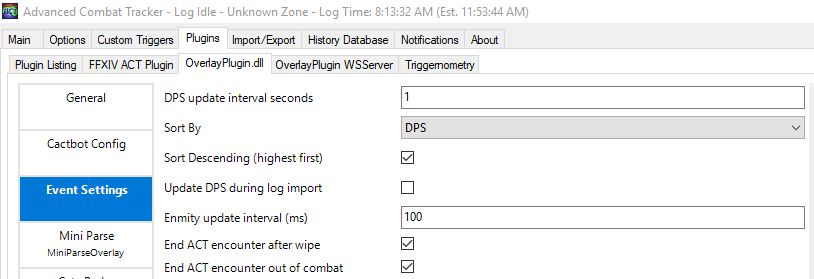
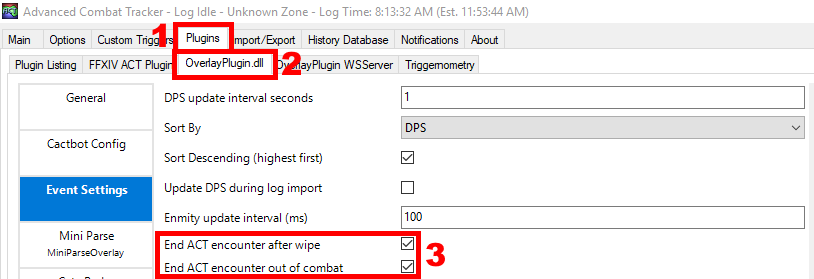
Update ACT setup guide (#7)
* Update README.md

* Update op_event_settings.png

* Update README.md

* Update README.md

* date

Changed region(s): [[0.1843, 0.8029, 0.5528, 1.0], [0.1843, 0.0573, 0.3686, 0.2867]]

diff --git a/setup/README.md b/setup/README.md
@@ -2,16 +2,18 @@
 
 This guide is intended to get a FFXIV player setup with ACT and an overlay for parsing purposes and be able to upload logs to the FFLogs website.
 
-*Last updated: 2023-06-29*
+*Last updated: 2024-09-02*
 
 <img align="right" src="resources/act_logo.png" alt="act_logo" height="100" vspace="25">
 
 ## Contents
 - [Installing ACT](#installing-act)
-- [Configuring ACT](#configuring-act)
-  - [Running as Admin](#running-as-admin)
-  - [Adding Firewall Exception](#adding-firewall-exception)
 - [FFXIV ACT Plugin](#ffxiv-act-plugin)
+  - [Configuring FFXIV ACT Plugin](#configuring-ffxiv-act-plugin)
+    - [Injection Method](#injection-method)
+    - [PCAP Method](#pcap-method)
+      - [Running as Admin](#running-as-admin)
+      - [Adding Firewall Exception](#adding-firewall-exception)
 - [OverlayPlugin](#overlayplugin)
   - [Using OverlayPlugin to End Encounters](#using-overlayplugin-to-end-encounters)
 - [Adding an Overlay](#adding-an-overlay)
@@ -55,15 +57,25 @@ At this point `FFXIV_ACT_Plugin.dll` should be enabled in **Plugins** > **Plugin
 
 ![Plugin Listing Tab](resources/ffxiv_act_plugin.png)
 
+### Configuring FFXIV ACT Plugin
+
 Next, you will need to decide whether you wish to use the older packet capture (PCAP) to gather the game's network traffic,
 or the newer Deucalion injection. Deucalion is not officially recommended as the default option yet, but does not require
-ACT to be started prior to logging in to your character, does not require the firewall exception, and does not require
-running as admin. On the other hand, it is potentially more dangerous should SE decide to take action against 
-injection-based plugins, and has not been as thoroughly tested as plain packet capture.
+ACT to be started prior to logging in to your character, is not susceptible to breaking due to network issues, does not require
+the firewall exception, and does not require running as admin. On the other hand, it is potentially more dangerous should
+SE decide to take action against injection-based plugins, and has not been as thoroughly tested as plain packet capture.
 
-### PCAP Method
+#### Injection Method
 
-#### Running as Admin
+All you need to do to make use of injection is check this box:
+
+![Deucalion/Injection Checkbox](resources/deucalion_checkbox.png)
+
+#### PCAP Method
+
+If you enabled injection in the step above, you can skip to installing [OverlayPlugin](#overlayplugin).
+
+##### Running as Admin
 It is recommended that ACT be run as Admin. You can right-click on the ACT shortcut and select the **Run as administrator** option. You may get an UAC prompt, select yes.
 
 ![Run as Admin Once](resources/runas_admin.png)
@@ -72,7 +84,7 @@ You can also configure ACT to always run as admin by right-clicking on the short
 
 ![Always Run as Admin](resources/always_runas_admin.png)
 
-#### Adding Firewall Exception
+##### Adding Firewall Exception
 Open the windows **Control Panel** (you can search for control panel in the taskbar search bar). Select the **System and Security** category and under **Windows Defender Firewall** click on **Allow an app through Windows Firewall**. 
 
 ![Where to Find Firewall Settings in Control Panel](resources/control_panel.png)
@@ -96,12 +108,6 @@ Back in the dialog window, click on **Add** to add ACT to the windows firewall e
 `Advanced Combat Tracker` should now appear in the list of **Allowed apps and features**. Click **OK** and exit the Control Panel.
 
 ![Allowed Apps List](resources/allowed_apps_act.png)
-
-### Injection Method
-
-All you need to do to make use of injection is check this box:
-
-![Deucalion/Injection Checkbox](resources/deucalion_checkbox.png)
 
 ## OverlayPlugin
 
